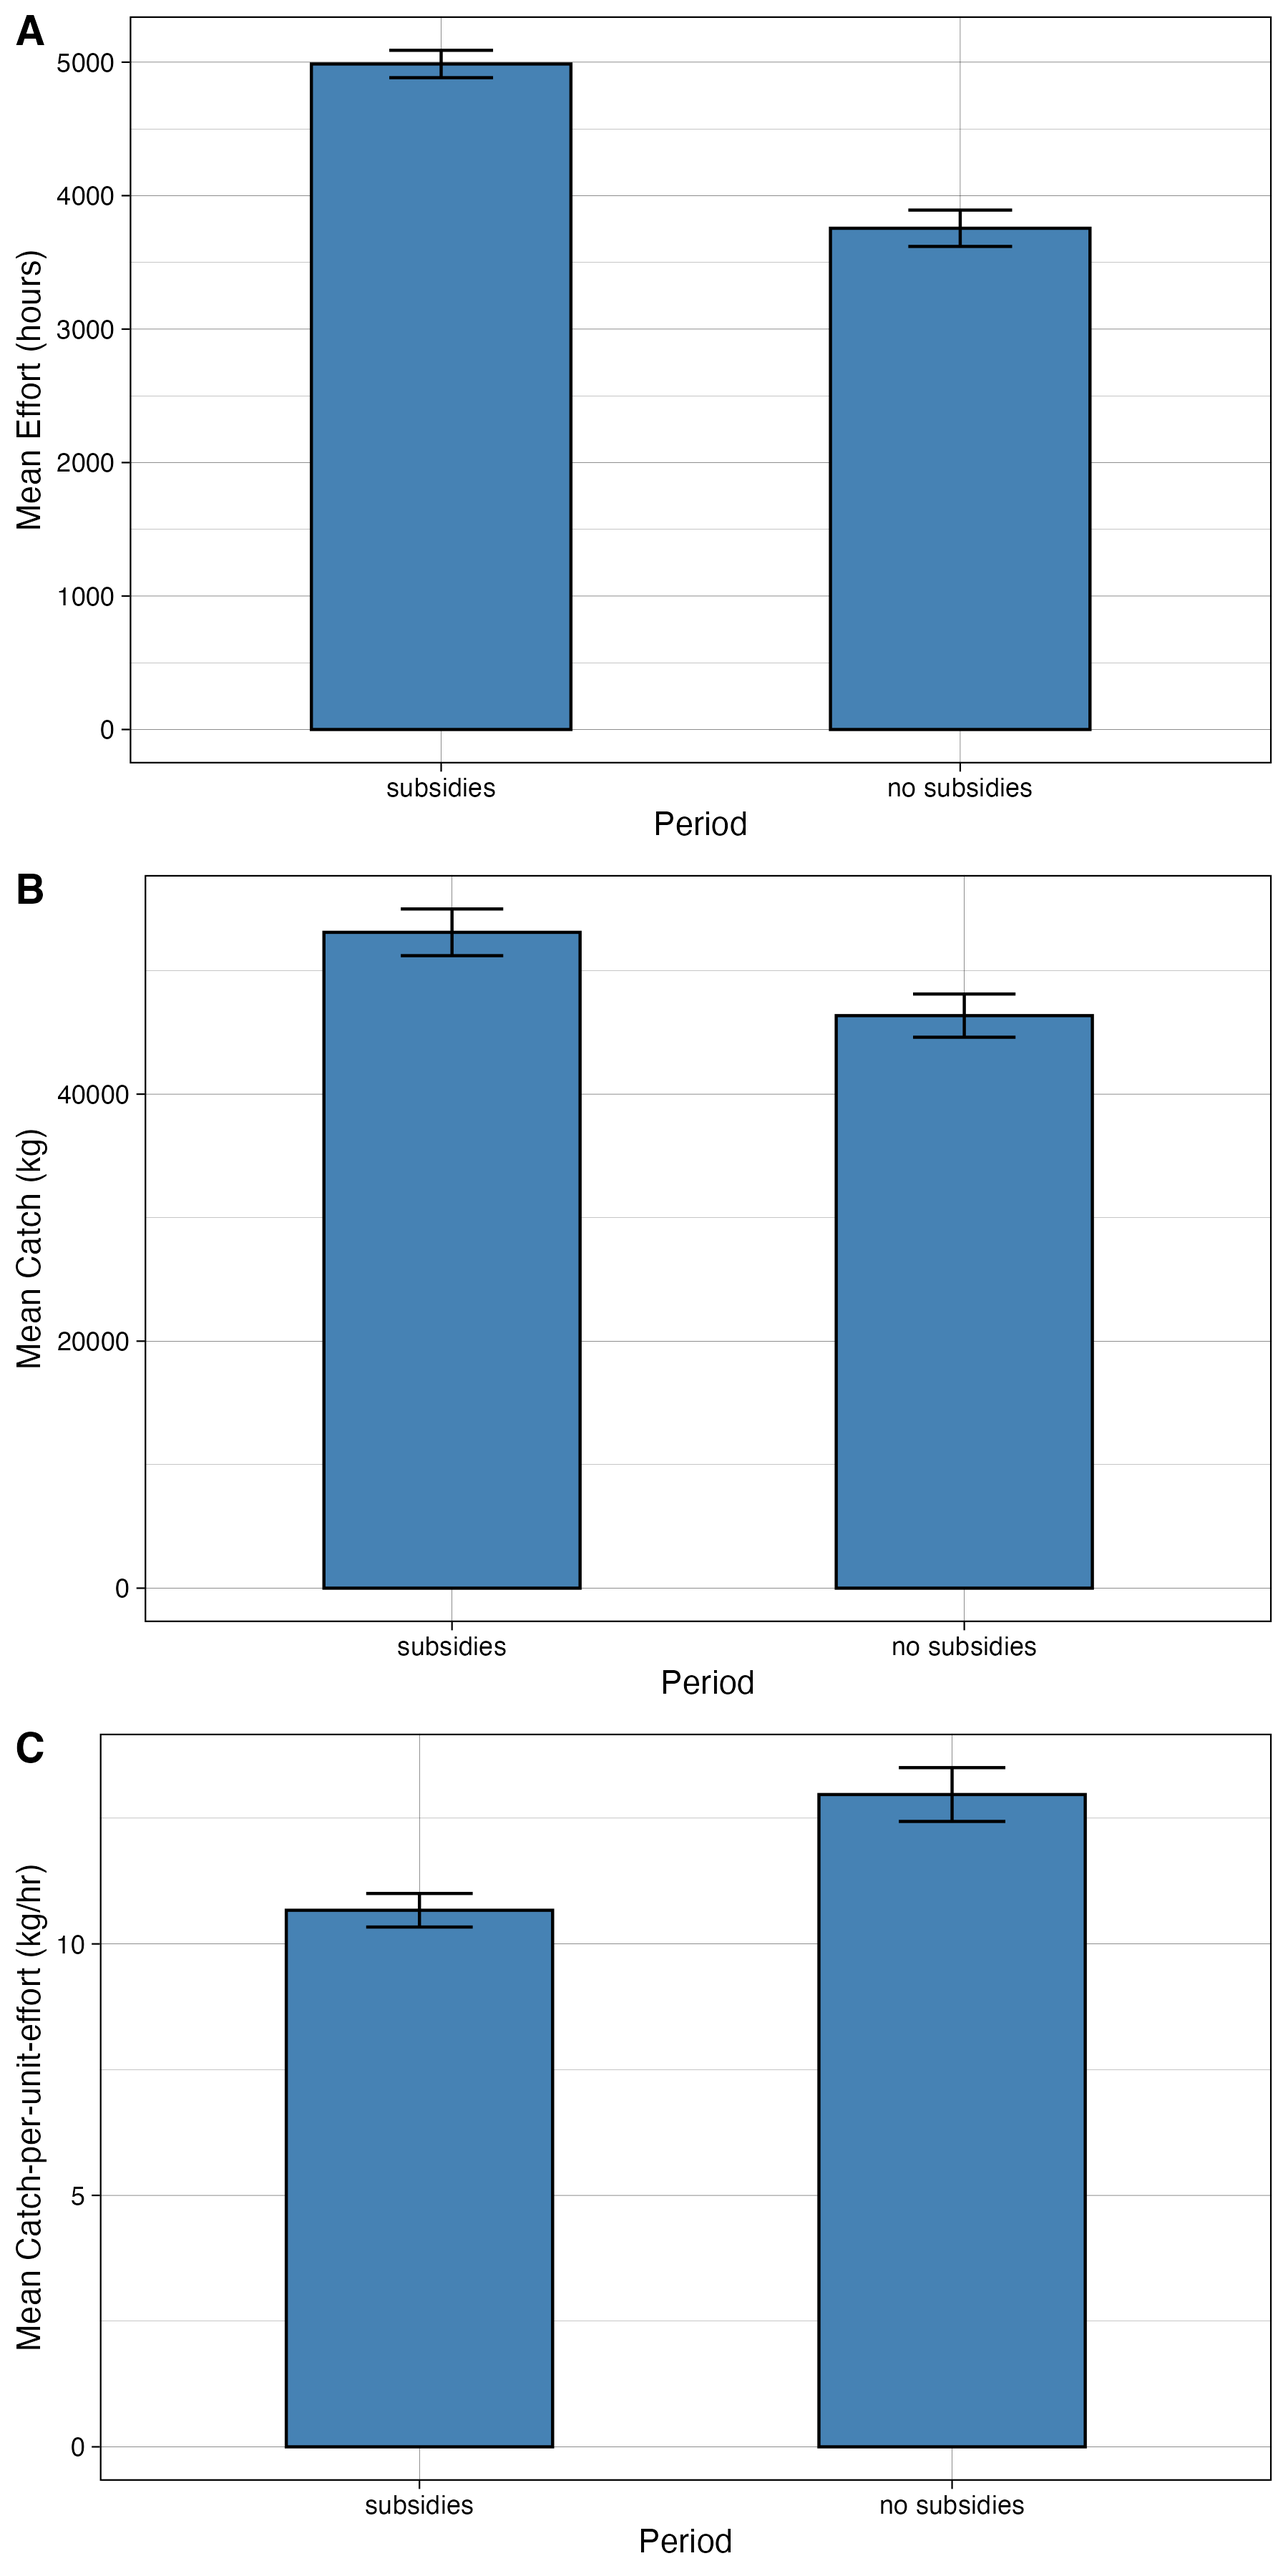
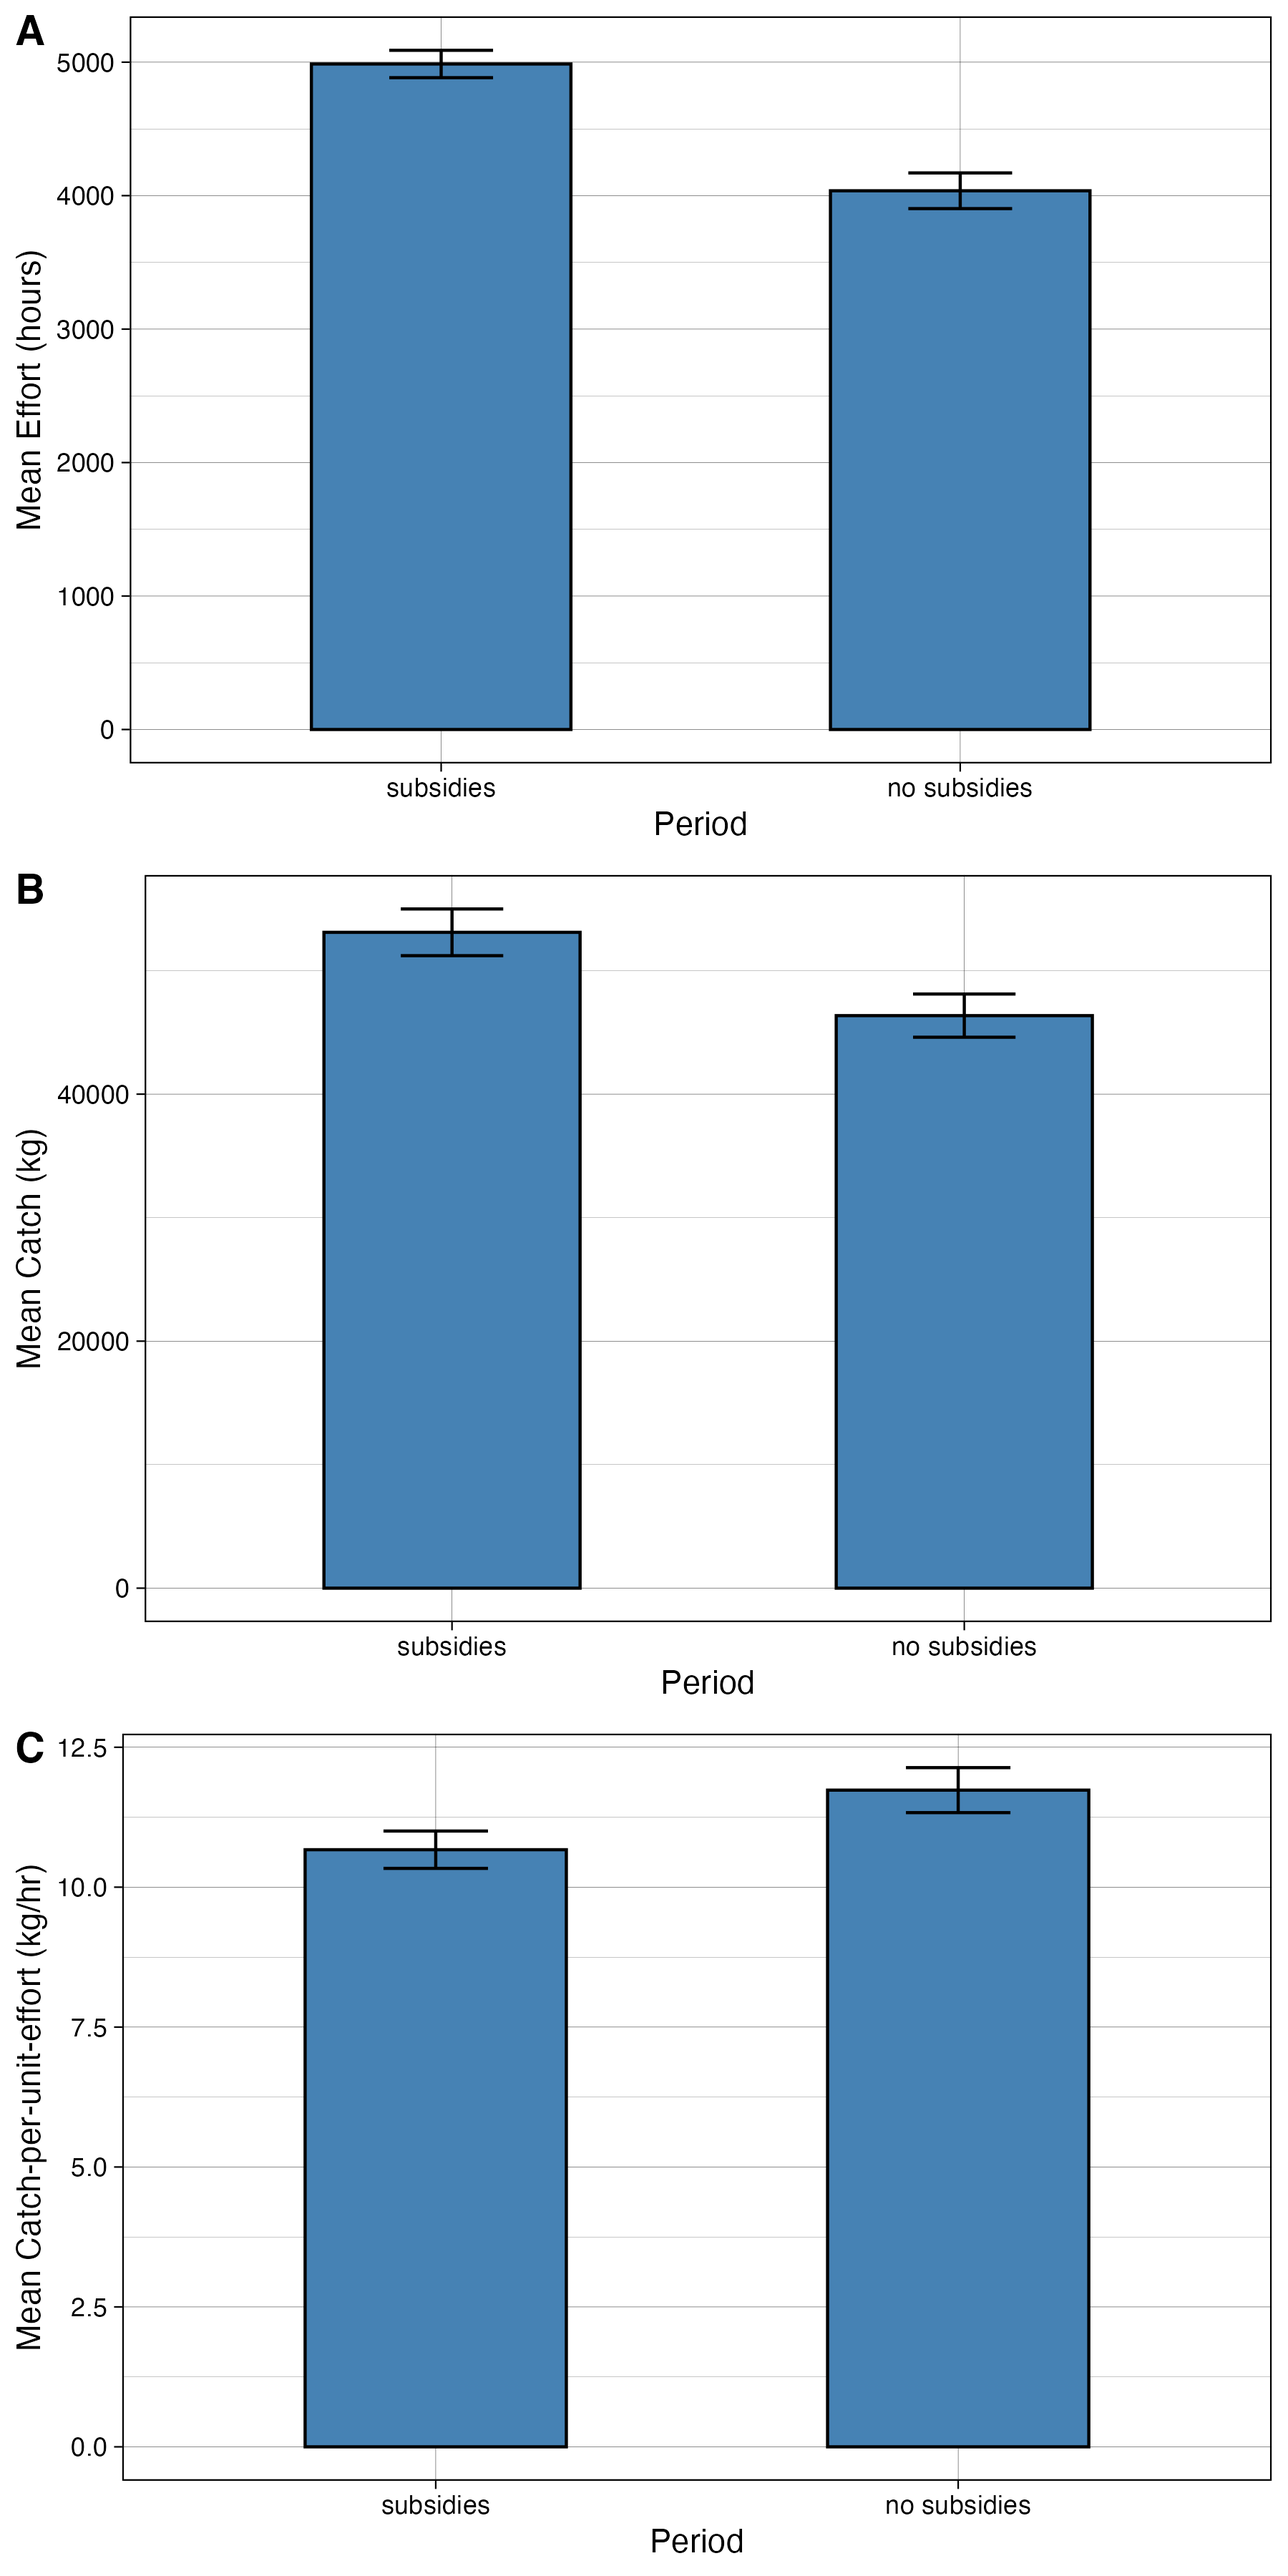
Updated code, raw data, figures and tables after updating all vms data

diff --git a/data/processed/cpue_regression_no2020.tex b/data/processed/cpue_regression_no2020.tex
@@ -6,20 +6,20 @@
 \midrule
 \addlinespace[0.5em]
 \multicolumn{4}{l}{\textit{Panel A}}\\
-\midrule \hspace{1em}Reform & -958.622** & -11003.952** & -0.033\\
-\hspace{1em} & (238.513) & (3298.126) & (0.626)\\
-\hspace{1em}R2 & 0.176 & 0.310 & 0.307\\
-\hspace{1em}R2 Within & 0.095 & 0.069 & 0.000\\
-\hspace{1em}RMSE & 1156.35 & 15825.17 & 3.17\\
+\midrule \hspace{1em}Reform & -1147.871** & -12165.271** & 0.296\\
+\hspace{1em} & (276.701) & (3829.523) & (0.730)\\
+\hspace{1em}R2 & 0.210 & 0.295 & 0.306\\
+\hspace{1em}R2 Within & 0.118 & 0.073 & 0.001\\
+\hspace{1em}RMSE & 1173.18 & 16260.84 & 3.25\\
 \addlinespace[0.5em]
 \multicolumn{4}{l}{\textit{Panel B}}\\
-\midrule \hspace{1em}Reform & -0.276** & -0.304* & -0.023\\
-\hspace{1em} & (0.090) & (0.109) & (0.053)\\
-\hspace{1em}R2 & 0.131 & 0.218 & 0.321\\
-\hspace{1em}R2 Within & 0.075 & 0.058 & 0.001\\
-\hspace{1em}RMSE & 0.38 & 0.48 & 0.27\\
+\midrule \hspace{1em}Reform & -0.348** & -0.350* & 0.002\\
+\hspace{1em} & (0.111) & (0.136) & (0.062)\\
+\hspace{1em}R2 & 0.167 & 0.211 & 0.305\\
+\hspace{1em}R2 Within & 0.102 & 0.066 & 0.000\\
+\hspace{1em}RMSE & 0.39 & 0.49 & 0.28\\
 \midrule\\
-\hspace{1em}Num.Obs. & 213 & 213 & 213\\
+\hspace{1em}Num.Obs. & 192 & 192 & 192\\
 \hspace{1em}Std.Errors & Newey-West (L=1) & Newey-West (L=1) & Newey-West (L=1)\\
 \hspace{1em}FE: vessel_id & X & X & X\\
 Pre‑subsidy mean & 4986.428 & 53101.769 & 10.669\\

diff --git a/data/processed/cpue_regression_eucluster.tex b/data/processed/cpue_regression_eucluster.tex
@@ -6,21 +6,21 @@
 \midrule
 \addlinespace[0.5em]
 \multicolumn{4}{l}{\textit{Panel A}}\\
-\midrule \hspace{1em}Reform & -958.622** & -11003.952** & -0.033\\
-\hspace{1em} & (238.513) & (3298.126) & (0.626)\\
+\midrule \hspace{1em}Reform & -958.622** & -11003.952* & -0.033\\
+\hspace{1em} & (226.612) & (3734.395) & (0.743)\\
 \hspace{1em}R2 & 0.176 & 0.310 & 0.307\\
 \hspace{1em}R2 Within & 0.095 & 0.069 & 0.000\\
 \hspace{1em}RMSE & 1156.35 & 15825.17 & 3.17\\
 \addlinespace[0.5em]
 \multicolumn{4}{l}{\textit{Panel B}}\\
-\midrule \hspace{1em}Reform & -0.276** & -0.304* & -0.023\\
-\hspace{1em} & (0.090) & (0.109) & (0.053)\\
+\midrule \hspace{1em}Reform & -0.276* & -0.304* & -0.023\\
+\hspace{1em} & (0.083) & (0.120) & (0.069)\\
 \hspace{1em}R2 & 0.131 & 0.218 & 0.321\\
 \hspace{1em}R2 Within & 0.075 & 0.058 & 0.001\\
 \hspace{1em}RMSE & 0.38 & 0.48 & 0.27\\
 \midrule\\
 \hspace{1em}Num.Obs. & 213 & 213 & 213\\
-\hspace{1em}Std.Errors & Newey-West (L=1) & Newey-West (L=1) & Newey-West (L=1)\\
+\hspace{1em}Std.Errors & by: eu_id & by: eu_id & by: eu_id\\
 \hspace{1em}FE: vessel_id & X & X & X\\
 Pre‑subsidy mean & 4986.428 & 53101.769 & 10.669\\
 \bottomrule
